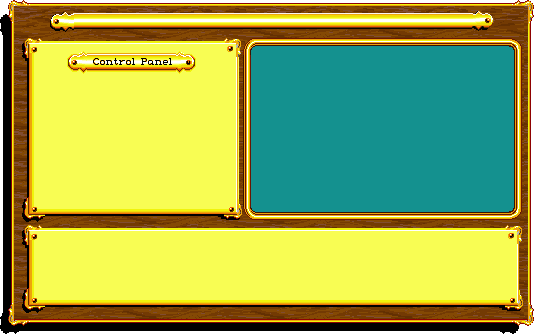
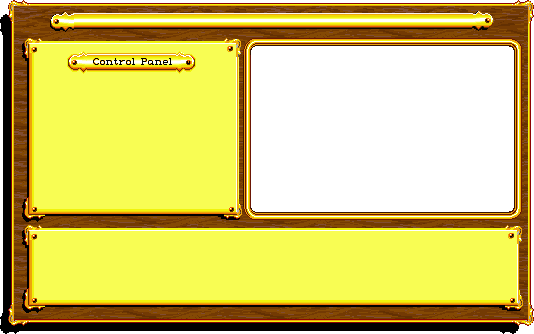
small board and fisrt level on biatches

Changed region(s): [[0.4494, 0.1198, 0.9888, 0.6587]]

diff --git a/src/OverallController.cpp b/src/OverallController.cpp
@@ -4,15 +4,16 @@
 
 
 
-OverallController::OverallController(b2World& world)
+OverallController::OverallController(b2World& world)//fix change name to menu
 	:m_world(world),
 	m_levels(FileHandler(ResourceManager::instance().getLevelPath(), true).readLevels()), //fix true->OPEN
 	m_window(sf::VideoMode(WINDOW_WIDTH, WINDOW_HEIGHT), "IncredibleMachine", sf::Style::Default),
-	m_background(sf::Vector2f((float)WINDOW_WIDTH / 2, (float)WINDOW_HEIGHT / 2), menuBackground),
+	m_background(sf::Vector2f(MENU_X, MENU_Y), menuBackground),
 	m_levelController(m_levels[m_numOfLevel], world, m_window)//fix
 {
  
 	m_window.setFramerateLimit(60);
+	m_smallBoard.create(TINY_BOARD_W, TINY_BOARD_H);
 
 	for (int i = exitButton; i < none; i++)
 		m_buttons.emplace_back(sf::Vector2f(0, 0), Type_t(i));
@@ -21,6 +22,11 @@ OverallController::OverallController(b2World& world)
 
 void OverallController::run()
 {
+
+	//set after loading new level
+	m_levelController.drawTinyBoard(m_smallBoard);
+
+
 	while (m_window.isOpen())
 	{
 		m_window.clear();
@@ -95,11 +101,17 @@ Type_t OverallController::getSelection(sf::Vector2f loc) const
 
 void OverallController::draw(sf::RenderWindow& window)
 {
+	sf::Sprite tinyBoard(m_smallBoard.getTexture());
+	tinyBoard.setPosition(268,70);//fix
+
+	m_levelController.drawStatic(false);
+	m_window.draw(tinyBoard);
 	m_background.draw(window);
 
 	for (auto& button : m_buttons)
 		button.draw(window);
-	window.draw(m_text);
+
+	//window.draw(m_text);
 }
 
 void OverallController::setButtons()

diff --git a/include/globals.h b/include/globals.h
@@ -2,7 +2,7 @@
 #include <SFML/Graphics.hpp>
 
 const int MENU_BUTTONS_INT_RECT [4][2]=  {{24, 23}, {22, 34}, {18, 31}, {110,28}};
-const int MENU_BUTTONS_LOC [4][2] = {{260, 250}, {200, 250}, {150,250}, {150, 200}};
+const int MENU_BUTTONS_LOC [4][2] = {{210, 200}, {150, 200}, {100,200}, {150, 200}};
 
 const unsigned obj_size = 40;
 
@@ -104,9 +104,9 @@ const float DEG_TO_RAD = 0.0174533;
 const int WINDOW_WIDTH = 640;
 const int WINDOW_HEIGHT = 450;
 
+
 const int FLOORING_UNIT = 16; //pixels
 const int FLOORING_MARGIN = 1; //pix
-
 const int FRAME_SIZE = 8;
 const int SCORE_TIME_H = 60;
 
@@ -119,6 +119,7 @@ const int ARROWS_H = 20;
 const int TB_W = 56;
 const int TB_H = WINDOW_HEIGHT - SCORE_TIME_H - PLAY_BUTTON_H - ARROWS_H-60;//frames
 const int TB_TOP = 100;//PLAYH+ARRH+3FRAMES~
+
 
 const int TB_X = WINDOW_WIDTH - FRAME_SIZE - TB_W; //topleft
 const int TB_OBJ_X = WINDOW_WIDTH - FRAME_SIZE- TB_W/2;
@@ -133,9 +134,17 @@ const int BAR_Y = PLAY_BUTTON_H + ARROWS_H + TB_H/2;
 
 const float BUTTON_SCALE = .9f;
 
+const int MENU_X = (WINDOW_WIDTH - (TB_W + FRAME_SIZE*2)) /2;
+const int MENU_Y = (WINDOW_HEIGHT - SCORE_TIME_H - FRAME_SIZE) / 2;
 
 
+const float BOARD_W = 560;
+const float BOARD_H = 352;
+const float TINY_BOARD_W = 263;
+const float TINY_BOARD_H = 166;
 
+const float BOARDS_RATIO_X = TINY_BOARD_W / BOARD_W ;
+const float BOARDS_RATIO_Y = TINY_BOARD_H / BOARD_H ;
 
 
 //fix 

diff --git a/src/LevelController.cpp b/src/LevelController.cpp
@@ -177,12 +177,9 @@ bool LevelController::setlevelStatus(const bool status)
 
 void LevelController::drawAll(bool running)
 {
-	m_window.clear(sf::Color(18, 160, 159));
+	m_window.clear();//sf::Color(18, 160, 159));
 
-	m_board.draw(m_window, running);//fix RUNNING
-
-	m_frame.draw(m_window);
-	m_toolbar.draw(m_window);
+	drawStatic(running);
 	
 	if (m_selected < play)
 	{
@@ -197,6 +194,13 @@ void LevelController::drawAll(bool running)
 	}
 
 	m_window.display();
+}
+
+void LevelController::drawStatic(bool running)
+{
+	m_board.draw(m_window, running);//fix RUNNING
+	m_frame.draw(m_window);
+	m_toolbar.draw(m_window);
 }
 
 bool LevelController::replaySolution()
@@ -291,4 +295,9 @@ bool LevelController::checkIfLevelFinished() const
 			return false;
 	}
 	return true;
+}
+
+void LevelController::drawTinyBoard (sf::RenderTexture& tinyBoard) const
+{
+	m_board.drawTinyBoard(tinyBoard);
 }

diff --git a/src/Board.cpp b/src/Board.cpp
@@ -4,7 +4,7 @@
 using boardObjects = std::vector<ObjInfo>;// changed
 
 Board::Board(const boardObjects& objects, b2World& world)
-	:m_background(sf::Vector2f(560.f,352.f))//fix constants
+	:m_background(sf::Vector2f(BOARD_W, BOARD_H))
  {
 	setBoard(objects, world);
 	m_background.setPosition(sf::Vector2f(8,8));//fix constants
@@ -180,4 +180,15 @@ bool Board::clickedOnMe(sf::Vector2f loc) const
 		return true;
 	
 	return false;
+}
+
+
+void Board::drawTinyBoard (sf::RenderTexture& tinyBoard) const
+{
+	tinyBoard.clear(sf::Color(18,160,159));
+
+	for(auto &obj : m_objects)
+		obj->drawSmall(tinyBoard);	
+
+   tinyBoard.display();
 }

diff --git a/src/BaseImg.cpp b/src/BaseImg.cpp
@@ -64,3 +64,14 @@ void BaseImg::setScale(float scale)
 {
 	m_sprite.setScale(sf::Vector2f(scale, scale));
 }
+
+void BaseImg::drawSmall (sf::RenderTexture& tinyBoard)
+{
+	auto pos = m_sprite.getPosition();
+	auto scale = m_sprite.getScale();
+	m_sprite.setScale(sf::Vector2f(BOARDS_RATIO_X,BOARDS_RATIO_Y));
+	m_sprite.setPosition(sf::Vector2f(pos.x*BOARDS_RATIO_X, pos.y*BOARDS_RATIO_Y));
+	tinyBoard.draw(m_sprite);
+	m_sprite.setScale(scale);
+	m_sprite.setPosition(pos);
+}

diff --git a/include/LevelController.h b/include/LevelController.h
@@ -21,14 +21,16 @@ public:
 	bool setlevelStatus(const bool);
 	void createMouseImg(const sf::Vector2f loc);
 	void updateMouseLoc(const sf::Vector2f);
+	//void loadNewLevel(level);
 
 	void whereAmI(sf::Vector2f);
 	void clearMouse(Type_t type, const sf::Vector2f loc);
 
 	bool replaySolution();
 
-	void drawAll(bool);
-
+	void drawAll(bool); //fix const?
+	void drawStatic(bool running);
+	void drawTinyBoard (sf::RenderTexture& tinyBoard) const;
 
 private:
 

diff --git a/include/Board.h b/include/Board.h
@@ -23,7 +23,8 @@ public:
 
 	Board(const boardObjects&, b2World& world);
 	void setBoard(const boardObjects & objects, b2World& world);
-	void draw(sf::RenderWindow& window, bool);
+	void draw(sf::RenderWindow& window, bool);//fix const?
+	void drawTinyBoard (sf::RenderTexture& tinyBoard) const;
 	bool tryToAdd(std::shared_ptr<GameObj>);
 	std::shared_ptr<GameObj> handleClick(sf::Vector2f mouseLoc);
 	void resetObjectsPositions();

diff --git a/include/OverallController.h b/include/OverallController.h
@@ -40,5 +40,6 @@ private:
 	sf::Text m_text;
 	unsigned m_numOfLevel = 0;
 	LevelController m_levelController;
+	sf::RenderTexture m_smallBoard;
 };
 sf::IntRect getIntRectOfMenuIcon(int i);

diff --git a/include/baseImg.h b/include/baseImg.h
@@ -22,6 +22,7 @@ public:
 	void setIntRect(sf::IntRect);
 	void setOrigin(float, float);
 	void setScale(float);
+	virtual void drawSmall (sf::RenderTexture&);
 
 
 
